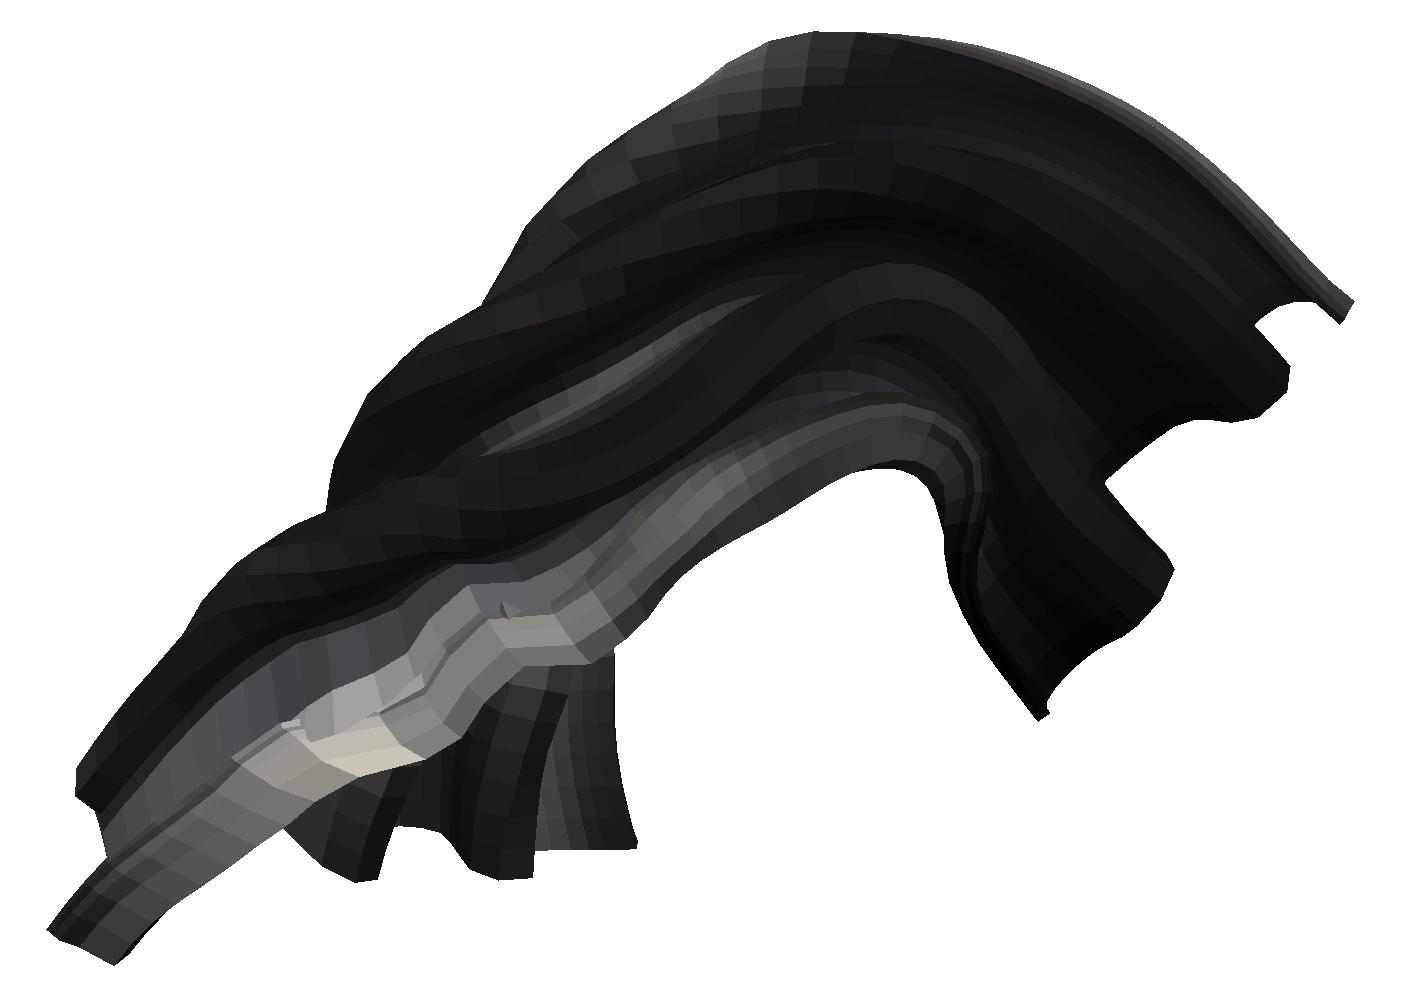
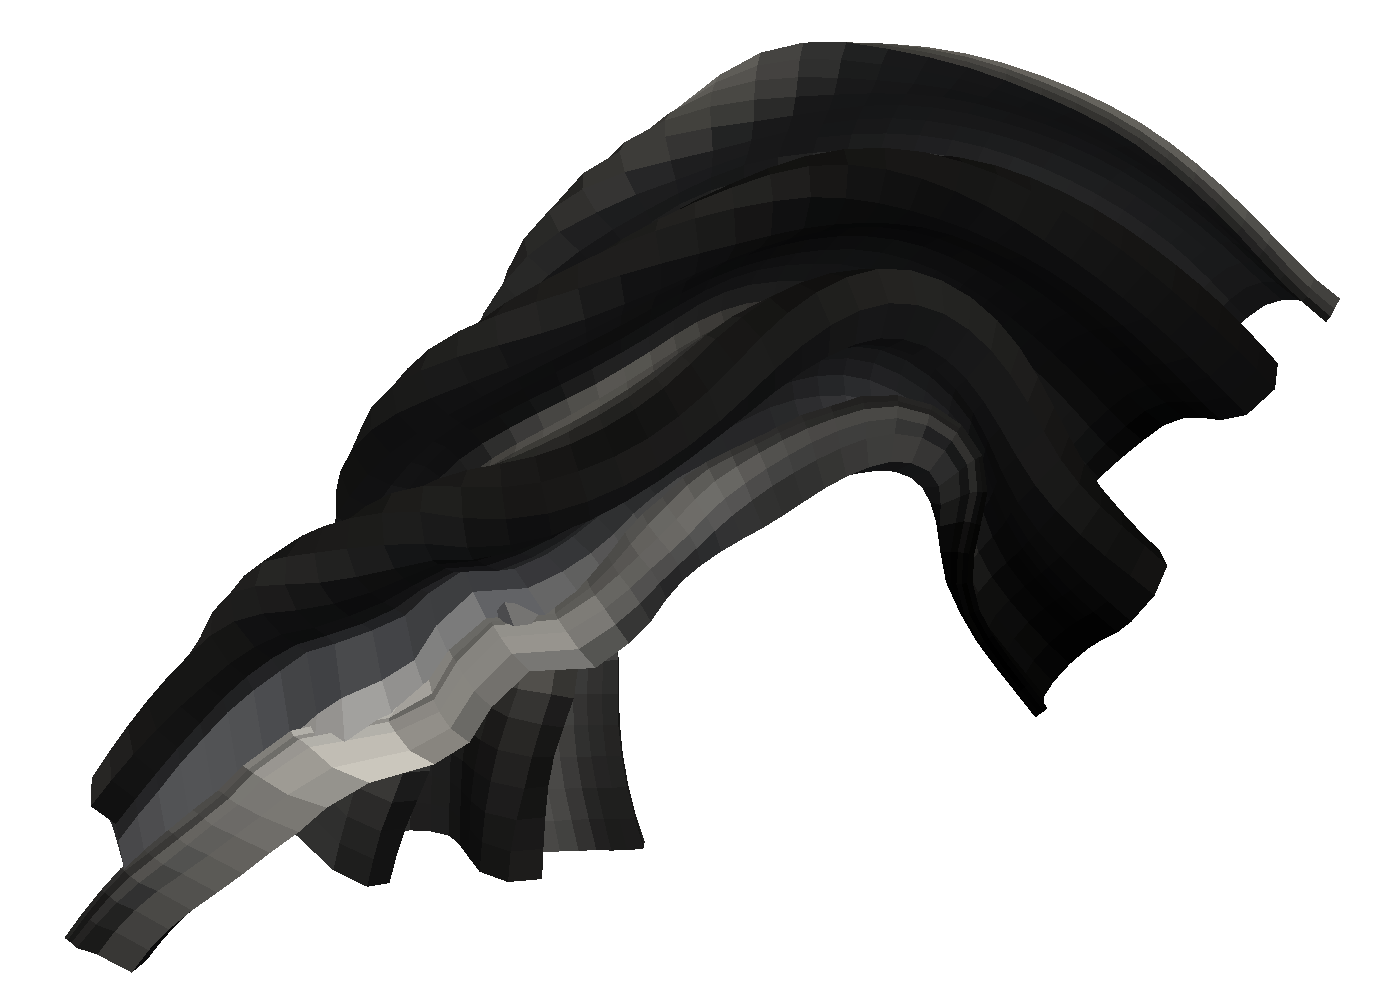
Adding a comparison table.
git-svn-id: svn+ssh://vizrd.srn.sandia.gov/svnroot/kmorel/papers/ColorMaps/trunk@661 61430140-fc74-48ae-be37-35807f1eb91a

diff --git a/ColorMaps.tex b/ColorMaps.tex
@@ -327,7 +327,7 @@ map.
 \begin{figure}
   \centering
   \includegraphics[width=1.25in]{images/GrayscaleShading}
-  \includegraphics[width=1.25in]{images/IsoluminantShading}
+  \includegraphics[width=1.25in]{images/Green2RedShading}
   \caption{Maps with big changes in luminance hide shading cues important
     for determining 3D structure (left image), whereas isoluminant maps
     minimize shading interference (right image).}
@@ -999,6 +999,39 @@ demonstrated in Figure~\ref{fig:ColorMapInteraction}.
 
 \section{Results}
 \label{sec:Results}
+
+\begin{figure*}
+  \centering
+  \begin{tabular}{c@{\;}c@{\;}c@{\;}c@{\;}c@{\;}c}
+    \includegraphics[width=1.1in]{images/Cool2WarmSpatialContrast} &
+    \includegraphics[width=1.1in]{images/RainbowSpatialContrast} &
+    \includegraphics[width=1.1in]{images/GrayscaleSpatialContrast} &
+    \includegraphics[width=1.1in]{images/BlackBodySpatialContrast} &
+    \includegraphics[width=1.1in]{images/Green2RedSpatialContrast} &
+    \includegraphics[width=1.1in]{images/Blue2YellowSpatialContrast} \\
+
+    \includegraphics[width=1.1in]{images/Cool2WarmLfSensitivity} &
+    \includegraphics[width=1.1in]{images/RainbowLfSensitivity} &
+    \includegraphics[width=1.1in]{images/GrayscaleLfSensitivity} &
+    \includegraphics[width=1.1in]{images/BlackBodyLfSensitivity} &
+    \includegraphics[width=1.1in]{images/Green2RedLfSensitivity} &
+    \includegraphics[width=1.1in]{images/Blue2YellowLfSensitivity} \\
+
+    \includegraphics[width=1.1in]{images/Cool2WarmHfNoise} &
+    \includegraphics[width=1.1in]{images/RainbowHfNoise} &
+    \includegraphics[width=1.1in]{images/GrayscaleHfNoise} &
+    \includegraphics[width=1.1in]{images/BlackBodyHfNoise} &
+    \includegraphics[width=1.1in]{images/Green2RedHfNoise} &
+    \includegraphics[width=1.1in]{images/Blue2YellowHfNoise} \\
+
+    \includegraphics[width=1.1in]{images/Cool2WarmShading} &
+    \includegraphics[width=1.1in]{images/RainbowShading} &
+    \includegraphics[width=1.1in]{images/GrayscaleShading} &
+    \includegraphics[width=1.1in]{images/BlackBodyShading} &
+    \includegraphics[width=1.1in]{images/Green2RedShading} &
+    \includegraphics[width=1.1in]{images/Blue2YellowShading}
+  \end{tabular}
+\end{figure*}
 
 \begin{figure}
   \centering

diff --git a/tools/VTK/generate_samples.h b/tools/VTK/generate_samples.h
@@ -6,9 +6,15 @@ void generate_bar(const char *filename, vtkColorTransferFunction *map);
 
 void generate_radial(const char *filename, vtkColorTransferFunction *map);
 
-void generate_discontinuity(const char *filename, vtkColorTransferFunction *map);
+void generate_discontinuity(const char *filename,
+                            vtkColorTransferFunction *map);
 
 void generate_locality(const char *filename, vtkColorTransferFunction *map);
 
 void generate_spatial_contrast_sensitivity(const char *filename,
                                            vtkColorTransferFunction *map);
+
+void generate_hf_noise(const char *filename, vtkColorTransferFunction *map);
+
+void generate_lf_sensitivity(const char *filename,
+                             vtkColorTransferFunction *map);
